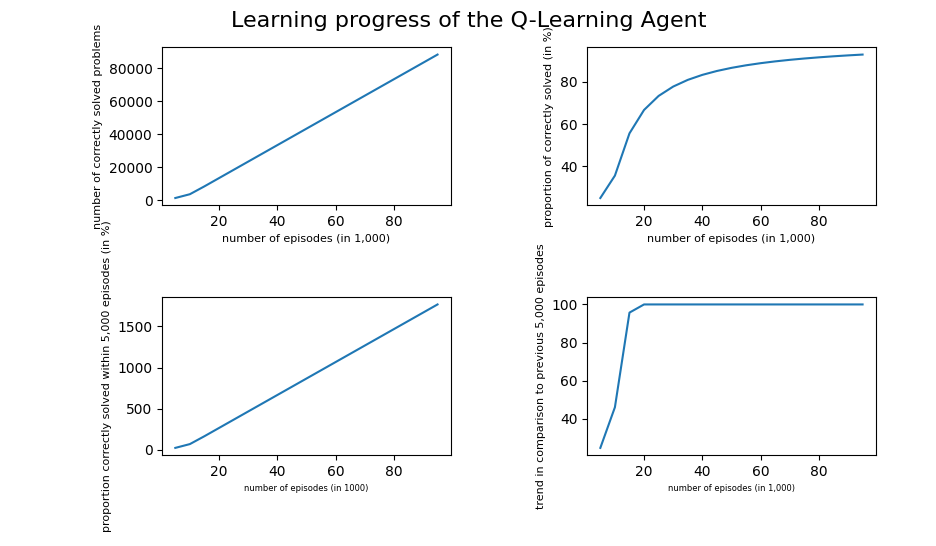
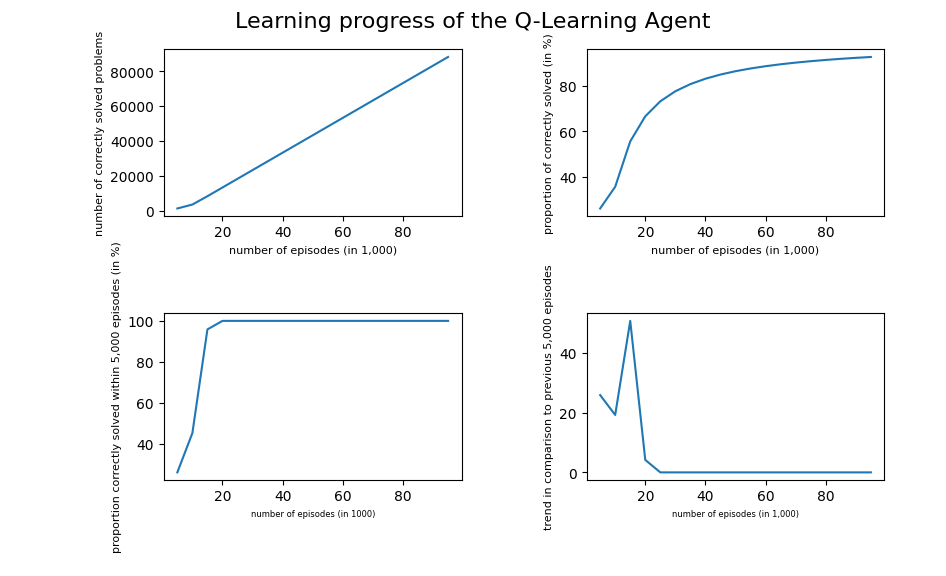
Result plot update

diff --git a/src/agent/qagent.py b/src/agent/qagent.py
@@ -20,6 +20,7 @@ import matplotlib.pyplot as plt
 def qLearningAgent():
     # Create variables needed to store information about the learning progress
     count_solved_problems = 0 # count the number of solved problems
+    count_solved_problems_total = 0 # count the number of solved problems in total
     proportion_new = 0 # proportion of solved problems at current time point
     proportion_old = 0 # proportion of solved problems at preceeding time point
 
@@ -106,6 +107,7 @@ def qLearningAgent():
             if done == True:
                 config_solved = True
                 count_solved_problems += 1
+                count_solved_problems_total += 1
             else:
                 config_solved = False
 
@@ -117,13 +119,13 @@ def qLearningAgent():
         
             proportion_new = count_solved_problems / 50  # = count_solved_problems / 5000 * 100
             no_episodes.append(episode/1000)
-            tot_prblems_solved.append(count_solved_problems)
-            prop_problems_solved.append(100 * count_solved_problems / episode)
+            tot_prblems_solved.append(count_solved_problems_total)
+            prop_problems_solved.append(100 * count_solved_problems_total / episode)
             prop_problems_solved_lastX.append(proportion_new)
             improvement_lastX.append(proportion_new - proportion_old)
 
             # Reset and update the counters for the last 5,000 episodes
-            count_pos_epsisodes = 0
+            count_solved_problems = 0
             proportion_old = proportion_new
     # Plot the results
     plotResults(no_episodes, tot_prblems_solved, prop_problems_solved, prop_problems_solved_lastX, improvement_lastX, 'Q-Learning_Progress_over_100,000_Episodes')
